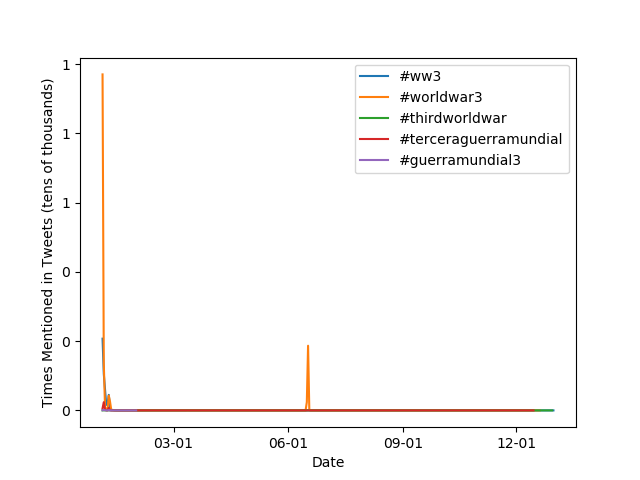
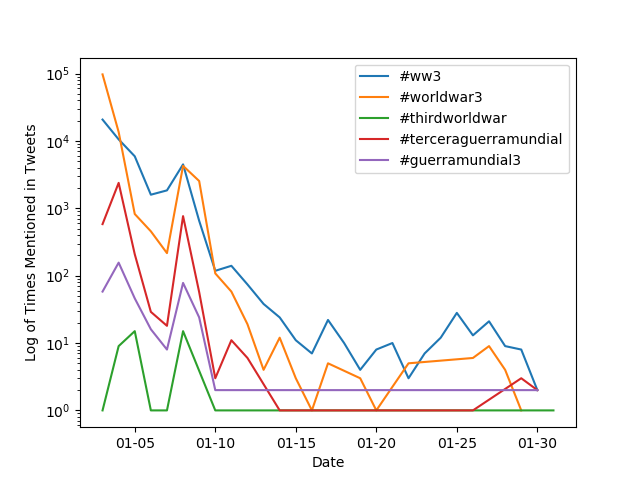
new line

diff --git a/src/alternative_reduce.py b/src/alternative_reduce.py
@@ -3,7 +3,7 @@
 # command line args
 import argparse
 parser = argparse.ArgumentParser()
-parser.add_argument('--hashtags',nargs = '+',  required=True)
+parser.add_argument('--hashtags', nargs='+', required=True)
 args = parser.parse_args()
 
 # imports
@@ -17,8 +17,6 @@ import matplotlib.dates as mdates
 import matplotlib.ticker as mtick
 import datetime as dt
 
-#print(type(args), args.hashtags[0])
-
 # format args input
 
 day_counts = {day: 0 for day in range(1, 367)}
@@ -29,53 +27,62 @@ list = [s.strip("'") for s in string.split(", ")]
 
 # count hashtag totals for each day and create dictionary dataset
 for hashtag in list:
-	hashtag_counts = {}
-	for filename in os.listdir('./outputs/'):
-		if not filename.endswith('.lang'):
-			continue
-		with open(os.path.join('./outputs/', filename)) as f:
-			data = json.load(f)
-			s = str(f)
-			start = s.find('-') + 1
-			end = s.find('.zip')
-			day = s[start:end]
-			if str(hashtag) in str(data):
-				total = 0
-				for lang in data[hashtag]:
-					total += data[hashtag][lang]
-					if day not in hashtag_counts:
-						hashtag_counts[day] = total
-					else:
-						hashtag_counts[day] += total
-			hashtag_counts = {k: v for k, v in sorted(hashtag_counts.items())}
-			dataset[hashtag] = hashtag_counts
+    hashtag_counts = {}
+    for filename in os.listdir('./outputs/'):
+        if not filename.endswith('.lang'):
+            continue
+        with open(os.path.join('./outputs/', filename)) as f:
+            data = json.load(f)
+            s = str(f)
+            start = s.find('-') + 1
+            end = s.find('.zip')
+            day = s[start:end]
+            if str(hashtag) in str(data):
+                total = 0
+                for lang in data[hashtag]:
+                    total += data[hashtag][lang]
+                    if day not in hashtag_counts:
+                        hashtag_counts[day] = total
+                    else:
+                        hashtag_counts[day] += total
+        hashtag_counts = {k: v for k, v in sorted(hashtag_counts.items())}
+        dataset[hashtag] = hashtag_counts
 
 # create line plot
 fig, ax = plt.subplots()
 for hashtag in dataset:
-	x_values = []
-	y_values = []
-	days = 0
-	for day in dataset[hashtag]:
-		days += 1
-		# convert day string to datetime object
-		try:
-			date = dt.datetime.strptime(day, '%m-%d')
-		except ValueError:
-			continue
-		x_values.append(date)
-		y_values.append(dataset[hashtag][day])
-	x_values.sort()
-	ax.plot(x_values, y_values, label=hashtag)
+    x_values = []
+    y_values = []
+    days = 0
+    for day in dataset[hashtag]:
+        days += 1
+        # convert day string to datetime object
+        try:
+            date = dt.datetime.strptime(day, '%m-%d')
+            # Filter to include only January
+            if date.month == 1:
+                x_values.append(date)
+                y_values.append(dataset[hashtag][day])
+        except ValueError:
+            continue
+    x_values.sort()
+    ax.plot(x_values, y_values, label=hashtag)
 
 # format x-axis as dates
 ax.xaxis.set_major_formatter(mdates.DateFormatter('%m-%d'))
-y_format = mtick.FuncFormatter(lambda x, pos: '{:,.0f}'.format(x/100000))
-ax.xaxis.set_major_locator(mdates.MonthLocator(bymonthday=1, bymonth=range(0, 13, 3)))
-ax.yaxis.set_major_formatter(y_format)
+# Since we are only dealing with January, we might not need a MonthLocator here
+# ax.xaxis.set_major_locator(mdates.MonthLocator(bymonthday=1, bymonth=1))
+ax.xaxis.set_major_locator(mdates.DayLocator(interval=5))  # Use DayLocator for better granularity within January
+
+# Set the y-axis to a logarithmic scale
+ax.set_yscale('log')  # This changes the y-axis to a logarithmic scale
+
+# Adjust y-axis label to reflect the logarithmic scale
+ax.set_ylabel('Log of Times Mentioned in Tweets')
+
 ax.set_xlabel('Date')
-ax.set_ylabel('Times Mentioned in Tweets (tens of thousands)')
 ax.legend()
 
 # save plot
 plt.savefig('line_plot.png')
+
